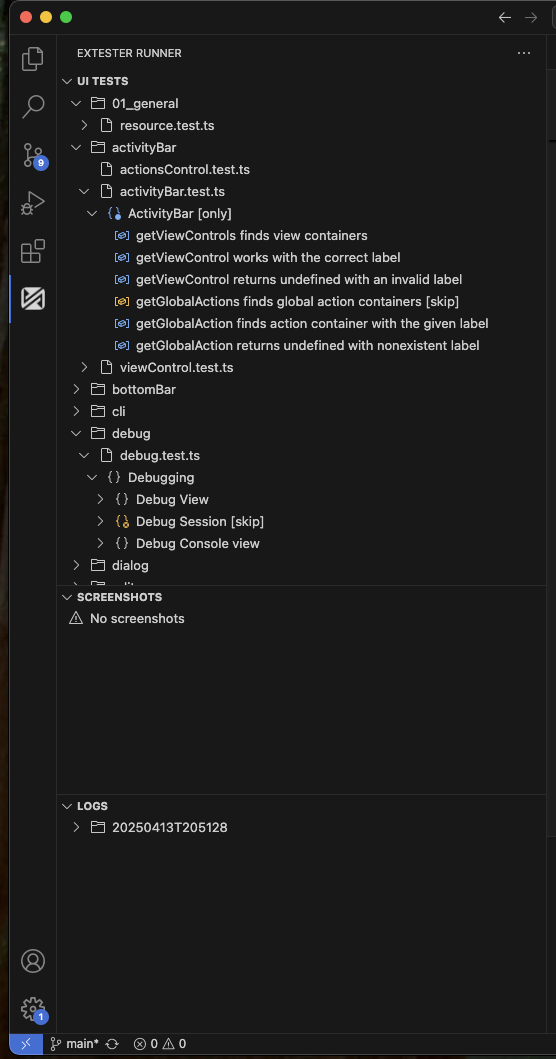
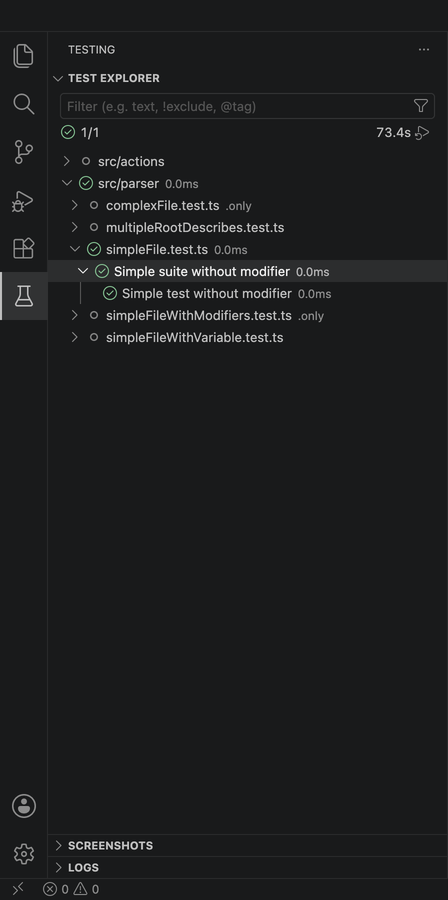
docs(runner): bring the Runner docs and screenshot up to date
The Runner moved to the Testing view, gained the experimental
hiddenWindow setting and ends debug runs on its own, but some docs
still described the old UI Tests view or left these out.

- README: document hiddenWindow (settings table, features, own
  section), the VS Code 1.147 requirement and the debug run ending by
  itself; root README describes the Testing view instead of an
  Activity Bar view
- docs site: replace the ExTester Runner guide screenshot of the
  removed UI Tests view with the Testing view, mention that a debug
  run ends with its command, and fix the "UI Tests view" reference in
  the TypeScript tests guide
- walkthrough: list hiddenWindow among the other settings
- features_list.md / features.txt: describe the Testing view,
  hiddenWindow, runCommand in extester.config.json and the debug run
  ending; drop the removed CodeLens, status bar, notification and
  custom view entries from the manual test checklist

Claude-Session: https://claude.ai/code/session_01SiFCcWYEPdGfE7tWzKhntH

diff --git a/packages/extester-runner/README.md b/packages/extester-runner/README.md
@@ -17,7 +17,7 @@
 
 - A VS Code extension project with UI tests written in TypeScript using [vscode-extension-tester](https://www.npmjs.com/package/vscode-extension-tester).
 - Node.js 22 or newer, as required by ExTester.
-- VS Code 1.100 or newer.
+- VS Code 1.100 or newer. The experimental [`hiddenWindow`](#hidden-window-experimental) setting needs VS Code 1.147 or newer in the tests.
 - To run the TypeScript sources without compiling them (`runSources`): vscode-extension-tester 8.29.0 or newer and [`tsx`](https://redhat-developer.github.io/vscode-extension-tester/guides/typescript-tests/) installed where ExTester runs (see [Running TypeScript sources](#running-typescript-sources)).
 
 ## Features
@@ -33,10 +33,11 @@
 
 - Tests marked with `.only` or `.skip` show it next to their name, and files that contain `.only` say so. Filter them with `@extesterRunner:only` or `@extesterRunner:skip`.
 - Stop, rerun, run history and the run of the tests in the current file come from the Testing view. One run starts at a time.
-- **Debug** any test, file or folder from the Testing view or the gutter (right-click the gutter button, or use its Debug Test action). Debug runs the same command in a JavaScript Debug Terminal, so breakpoints in your tests stop them, and turn off Mocha's timeouts so a paused test does not fail. A test that sets its own timeout with `this.timeout()` keeps it.
+- **Debug** any test, file or folder from the Testing view or the gutter (right-click the gutter button, or use its Debug Test action). Debug runs the same command in a JavaScript Debug Terminal, so breakpoints in your tests stop them, and turns off Mocha's timeouts so a paused test does not fail. A test that sets its own timeout with `this.timeout()` keeps it. The debug run ends by itself when the test command ends.
 - Each run calls `extest setup-and-run` with the VS Code version, release type and extra arguments from your settings, or your own [`runCommand`](#custom-run-command).
 - Build before each run with [`preRunTask`](#settings), and pass environment variables to the tests with [`env`](#settings).
 - Run the compiled JavaScript tests from your output folder, or the TypeScript sources with [`runSources`](#running-typescript-sources).
+- Keep working while the tests run: the experimental [`hiddenWindow`](#hidden-window-experimental) setting runs them in a VS Code window that is never shown or focused.
 
 The result of each test is read from a small hook that ExTester Runner preloads into the `extest` process with `NODE_OPTIONS`. It only listens to Mocha's events and copies the output; it does not change how the tests run.
 
@@ -73,6 +74,7 @@ All settings live under the `extesterRunner` namespace in your workspace setting
 | `env`                      | `{}`               | Environment variables for test runs, such as `{ "TEST_USER": "tester" }`. Only their names are logged.                                                    |
 | `runCommand`               | —                  | Command that runs the tests instead of `npx extest setup-and-run`, such as `npm run ui-test -- ${target}`. See [Custom run command](#custom-run-command). |
 | `preRunTask`               | —                  | VS Code task to run before each test run, such as `npm: compile`. The tests start only when it succeeds.                                                  |
+| `hiddenWindow`             | `false`            | **Experimental.** Run the tests in a VS Code window that is never shown or focused. See [Hidden window](#hidden-window-experimental).                     |
 
 **Logs**
 
@@ -108,6 +110,12 @@ Set `runCommand` to run the tests with your own command instead of `npx extest s
 `${target}` is replaced by the quoted path or glob of the tests to run: the file, a glob of the files in the folder, or a glob of all test files. Without `${target}`, the target is appended. The command runs in the workspace folder and gets `env` and, when one test runs, `MOCHA_GREP`. The VS Code version, type, temp folder, `additionalArgs` and `configFile` are not added to it: put the options it needs in the command.
 
 The Testing view still shows the result of each test when the command keeps the environment variables for the Node.js process that runs Mocha, as npm scripts and shell scripts do. A command that drops them, such as `docker run` without `-e`, still runs the tests, but they show as skipped and the results are only in the output.
+
+## Hidden window (experimental)
+
+Turn on `extesterRunner.hiddenWindow` to run the tests in a VS Code window that is never shown or focused, so a run does not take over your screen. The Runner sets `EXTESTER_HIDDEN_WINDOW=true` for `npx extest setup-and-run` and for a custom `runCommand`; a value of `EXTESTER_HIDDEN_WINDOW` in `env` wins over the setting. To turn it on for the whole team, set `run.hiddenWindow` in `extester.config.json` instead.
+
+It needs an ExTester release with hidden window support and VS Code 1.147 or newer. VS Code then runs in extension test mode: dialogs are not shown and UI state is not kept between runs. See [Running With a Hidden Window](https://redhat-developer.github.io/vscode-extension-tester/guides/hidden-window/).
 
 ## Running TypeScript sources
 

diff --git a/packages/extester-runner/features_list.md b/packages/extester-runner/features_list.md
@@ -5,7 +5,7 @@ ExTester Runner contributes a test controller (`extesterRunner`, label **ExTeste
 - Test items: folder (one per folder that contains test files) → file → `describe` block → `it` test. Item ids join the titles with `›` (never `\0`, which VS Code rejects).
 - Discovery comes from `TestFileDiscovery` (`src/testing/testFileDiscovery.ts`: glob search per workspace folder, refreshed by file and configuration watchers) and `listRunTargets` (`src/utils/runTargets.ts`), which parses `describe`/`it` blocks from the sources.
 - Tests marked `.only`/`.skip` get `only`/`skip` as their description, and own or inherited modifiers as the tags `only`/`skip` (filter `@extesterRunner:only`). Files that contain `.only` get the description `.only`.
-- Two run profiles: **Run** and **Debug**. Debug runs the task's command line in a `node-terminal` debug session (`TestRunner.useDebugger`), and the result hook turns off Mocha's timeouts when `EXTESTER_RUNNER_NO_TIMEOUT=true`. `refreshHandler` refreshes discovery.
+- Two run profiles: **Run** and **Debug**. Debug runs the task's command line in a `node-terminal` debug session (`TestRunner.useDebugger`), and the result hook turns off Mocha's timeouts when `EXTESTER_RUNNER_NO_TIMEOUT=true`. The debug run stops the terminal session when the last Node.js child session ends and no new one starts within two seconds, because the shell stays open at its prompt. `refreshHandler` refreshes discovery.
 - The run handler creates one task per requested item (`RunFolderTask`, `RunFileTask`, `RunTestTask`), or one `RunAllTestsTask` per workspace folder when all tests run, and runs them one after another through `TestRunManager.startGroup` (one run at a time; a second run offers to stop the first).
 
 # Per-test results
@@ -38,9 +38,9 @@ Running, stopping and rerunning tests use VS Code's own **Test:** commands.
 
 # Settings (Configuration)
 
-Settings live under `extesterRunner`: `testFileGlob`, `excludeGlob`, `ignorePathPart`, `runSources`, `rootFolder`, `outputFolder`, `tempFolder`, `visualStudioCode.Version`, `visualStudioCode.Type`, `additionalArgs`, `configFile`, `env`, `preRunTask`, `runCommand`, `hideEmptyLogFolders`.
+Settings live under `extesterRunner`: `testFileGlob`, `excludeGlob`, `ignorePathPart`, `runSources`, `rootFolder`, `outputFolder`, `tempFolder`, `visualStudioCode.Version`, `visualStudioCode.Type`, `additionalArgs`, `configFile`, `env`, `preRunTask`, `runCommand`, `hiddenWindow` (experimental), `hideEmptyLogFolders`.
 
-Project configuration: the `runner` section of `extester.config.json` (read with the CLI's own loader, `extends` included) holds the shared values of `testFileGlob`, `excludeGlob`, `ignorePathPart`, `rootFolder`, `outputFolder`, `runSources`, `additionalArgs`, `env` and `preRunTask`; `visualStudioCode.Version`, `visualStudioCode.Type` and `tempFolder` come from `setup` / `run`. Precedence: defaults < user settings < file < workspace / workspace-folder settings. The file is read per workspace root, cached, and watched.
+Project configuration: the `runner` section of `extester.config.json` (read with the CLI's own loader, `extends` included) holds the shared values of `testFileGlob`, `excludeGlob`, `ignorePathPart`, `rootFolder`, `outputFolder`, `runSources`, `additionalArgs`, `env`, `preRunTask` and `runCommand`; `visualStudioCode.Version`, `visualStudioCode.Type` and `tempFolder` come from `setup` / `run`. Precedence: defaults < user settings < file < workspace / workspace-folder settings. The file is read per workspace root, cached, and watched.
 
 Changing a setting or the file refreshes discovery and the views.
 
@@ -51,7 +51,7 @@ Tests run in VS Code shell tasks (source `extester-runner`) that call `extest se
 - `RunAllTestsTask`, `RunFolderTask`, `RunFileTask`: map sources from `rootFolder` to `outputFolder`, or with `runSources` pass the source file, `<folder>/<pattern>` or `<common folder>/**/<pattern>` (`src/tasks/testTarget.ts`).
 - `RunTestTask`: runs one file and selects one `describe`/`it` with Mocha's `grep` in `MOCHA_GREP` (`src/utils/testGrep.ts`).
 - Each task runs in the workspace root that owns the tests, with that root's configuration. Values from `extester.config.json` (VS Code version, type, storage) are not passed as CLI arguments; the CLI reads them from the file.
-- All tasks pass `env`, and run the `preRunTask` VS Code task first, if set.
+- All tasks pass `env`, and run the `preRunTask` VS Code task first, if set. With the experimental `hiddenWindow` setting on, they also set `EXTESTER_HIDDEN_WINDOW=true` unless `env` sets it (`getRunEnvironment` in `src/tasks/taskConfiguration.ts`).
 
 - With `runCommand` set, all tasks run that command instead of `npx extest setup-and-run`; `${target}` is replaced by the quoted target, or the target is appended (`src/utils/runCommand.ts`). Version, type, storage, `additionalArgs` and `--config` are not added. The result hook still works when the command keeps `NODE_OPTIONS` and `EXTESTER_RUNNER_RESULTS` for the Mocha process.
 

diff --git a/docs-site/src/content/docs/guides/extester-runner.md b/docs-site/src/content/docs/guides/extester-runner.md
@@ -2,7 +2,7 @@
 title: ExTester Runner
 ---
 
-![ExTester Runner](../../../assets/extester-runner.png)
+![ExTester tests in the Testing view, with the Screenshots and Logs views below them](../../../assets/extester-runner.png)
 
 ## Quick Start
 
@@ -35,7 +35,7 @@ It adds your tests to VS Code's built-in **Testing** view, under the **ExTester*
 2. **Test Execution**
    - Runs everything, a workspace folder, a folder, a file, a `describe` block or a single `it` from the Testing view, or from the gutter buttons next to each `describe` and `it` in the editor
    - **Test: Run Tests in Current File**, **Test: Rerun Last Run**, run history and the other **Test:** commands of VS Code work as for any test controller
-   - Debug any of them with **Debug Test** in the Testing view or the gutter menu. Debug runs the same command in a JavaScript Debug Terminal, so breakpoints in your tests stop them, and turn off Mocha's timeouts so a paused test does not fail. A test that sets its own timeout with `this.timeout()` keeps it. The command must start Node.js from the debug terminal, as `npx extest` and npm scripts do
+   - Debug any of them with **Debug Test** in the Testing view or the gutter menu. Debug runs the same command in a JavaScript Debug Terminal, so breakpoints in your tests stop them, and turns off Mocha's timeouts so a paused test does not fail. A test that sets its own timeout with `this.timeout()` keeps it. The command must start Node.js from the debug terminal, as `npx extest` and npm scripts do. The debug run ends by itself when the last Node.js process of the command exits, so the terminal left at its prompt does not keep the run going
    - Stop a run with the stop button of the Testing view. Only one run starts at a time; starting another one offers to stop the current run
    - Each run calls `extest setup-and-run`, or your [custom run command](#custom-run-command), in a VS Code task, with the VS Code version, release type and extra arguments from your settings. The task terminal shows the full output
    - Runs a build task before the tests with `preRunTask`, and passes environment variables to the tests with `env`; see [Build before running and environment variables](#build-before-running-and-environment-variables)

diff --git a/README.md b/README.md
@@ -92,7 +92,7 @@ The full policy, including how the tested VS Code range is kept up to date, is o
 
 ## ExTester Runner
 
-The [ExTester Runner](https://marketplace.visualstudio.com/items?itemName=redhat.extester-runner) extension adds a view to the Activity Bar that lists your UI tests as a tree, runs a file, a folder or everything with one click, and shows the screenshots and logs from each run. It is also available on [Open VSX](https://open-vsx.org/extension/redhat/extester-runner). See the [ExTester Runner guide](https://redhat-developer.github.io/vscode-extension-tester/guides/extester-runner/).
+The [ExTester Runner](https://marketplace.visualstudio.com/items?itemName=redhat.extester-runner) extension lists your UI tests in VS Code's **Testing** view, runs or debugs everything, a folder, a file, a `describe` block or a single test, and shows the result of each test with its error, stack trace and failure screenshot. The **Screenshots** and **Logs** views below the tests keep the files of each run. It is also available on [Open VSX](https://open-vsx.org/extension/redhat/extester-runner). See the [ExTester Runner guide](https://redhat-developer.github.io/vscode-extension-tester/guides/extester-runner/).
 
 ## Documentation
 

diff --git a/packages/extester-runner/resources/walkthroughs/otherSettings.md b/packages/extester-runner/resources/walkthroughs/otherSettings.md
@@ -7,6 +7,7 @@
 | `tempFolder`               | Folder for the downloaded VS Code, ChromeDriver, screenshots and logs.                  |
 | `runCommand`               | Your own command instead of `npx extest setup-and-run`, such as `npm run ui-test -- ${target}`. |
 | `configFile`               | Path of `extester.config.json` when it is not in the workspace folder.                  |
+| `hiddenWindow`             | **Experimental.** Run the tests in a VS Code window that is never shown or focused (VS Code 1.147+). |
 | `hideEmptyLogFolders`      | Hide log folders without files in the **Logs** view (default: on).                      |
 
 All settings start with `extesterRunner.`. Values in `extester.config.json` beat your user settings, and workspace settings beat the file.

diff --git a/docs-site/src/content/docs/guides/typescript-tests.md b/docs-site/src/content/docs/guides/typescript-tests.md
@@ -66,4 +66,4 @@ You can remove the step that emits compiled **test** files. The extension and it
 
 ## ExTester Runner
 
-[ExTester Runner](/vscode-extension-tester/guides/extester-runner/) runs compiled JavaScript tests by default. To run TypeScript sources from its UI Tests view, enable the `extesterRunner.runSources` setting. See [Running TypeScript Sources](/vscode-extension-tester/guides/extester-runner/#running-typescript-sources).
+[ExTester Runner](/vscode-extension-tester/guides/extester-runner/) runs compiled JavaScript tests by default. To run the TypeScript sources from the Testing view, enable the `extesterRunner.runSources` setting. See [Running TypeScript Sources](/vscode-extension-tester/guides/extester-runner/#running-typescript-sources).
